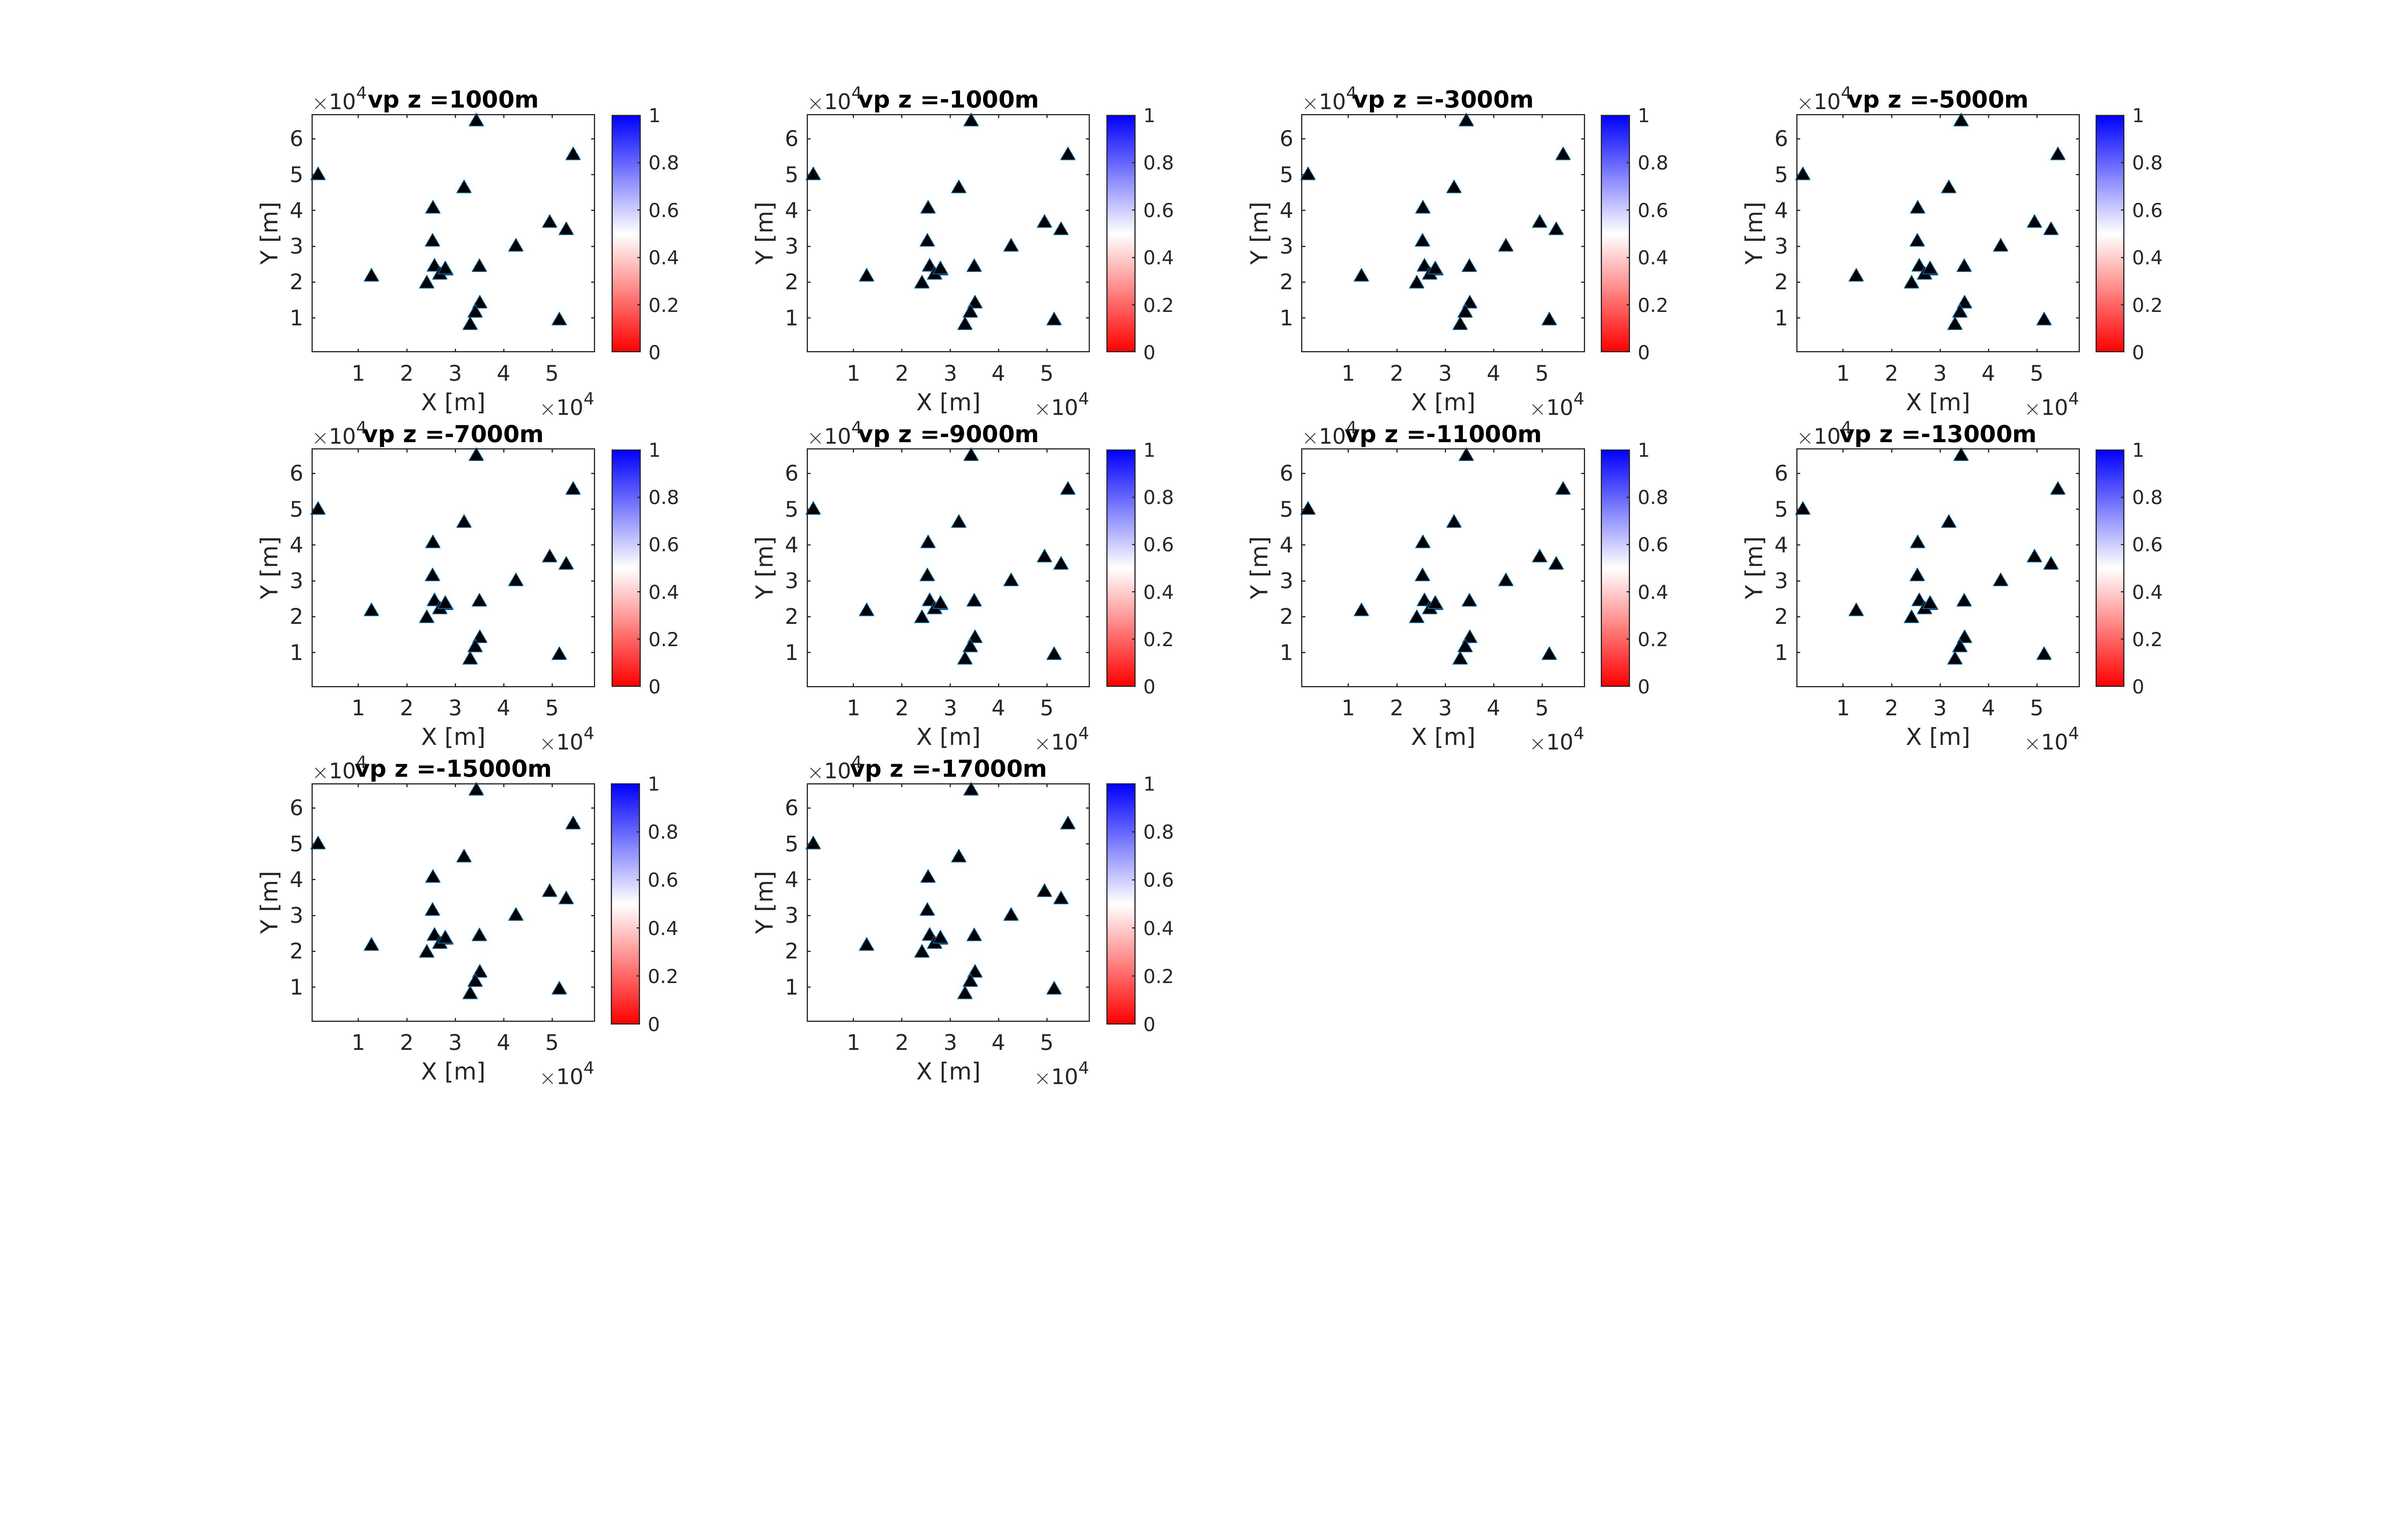
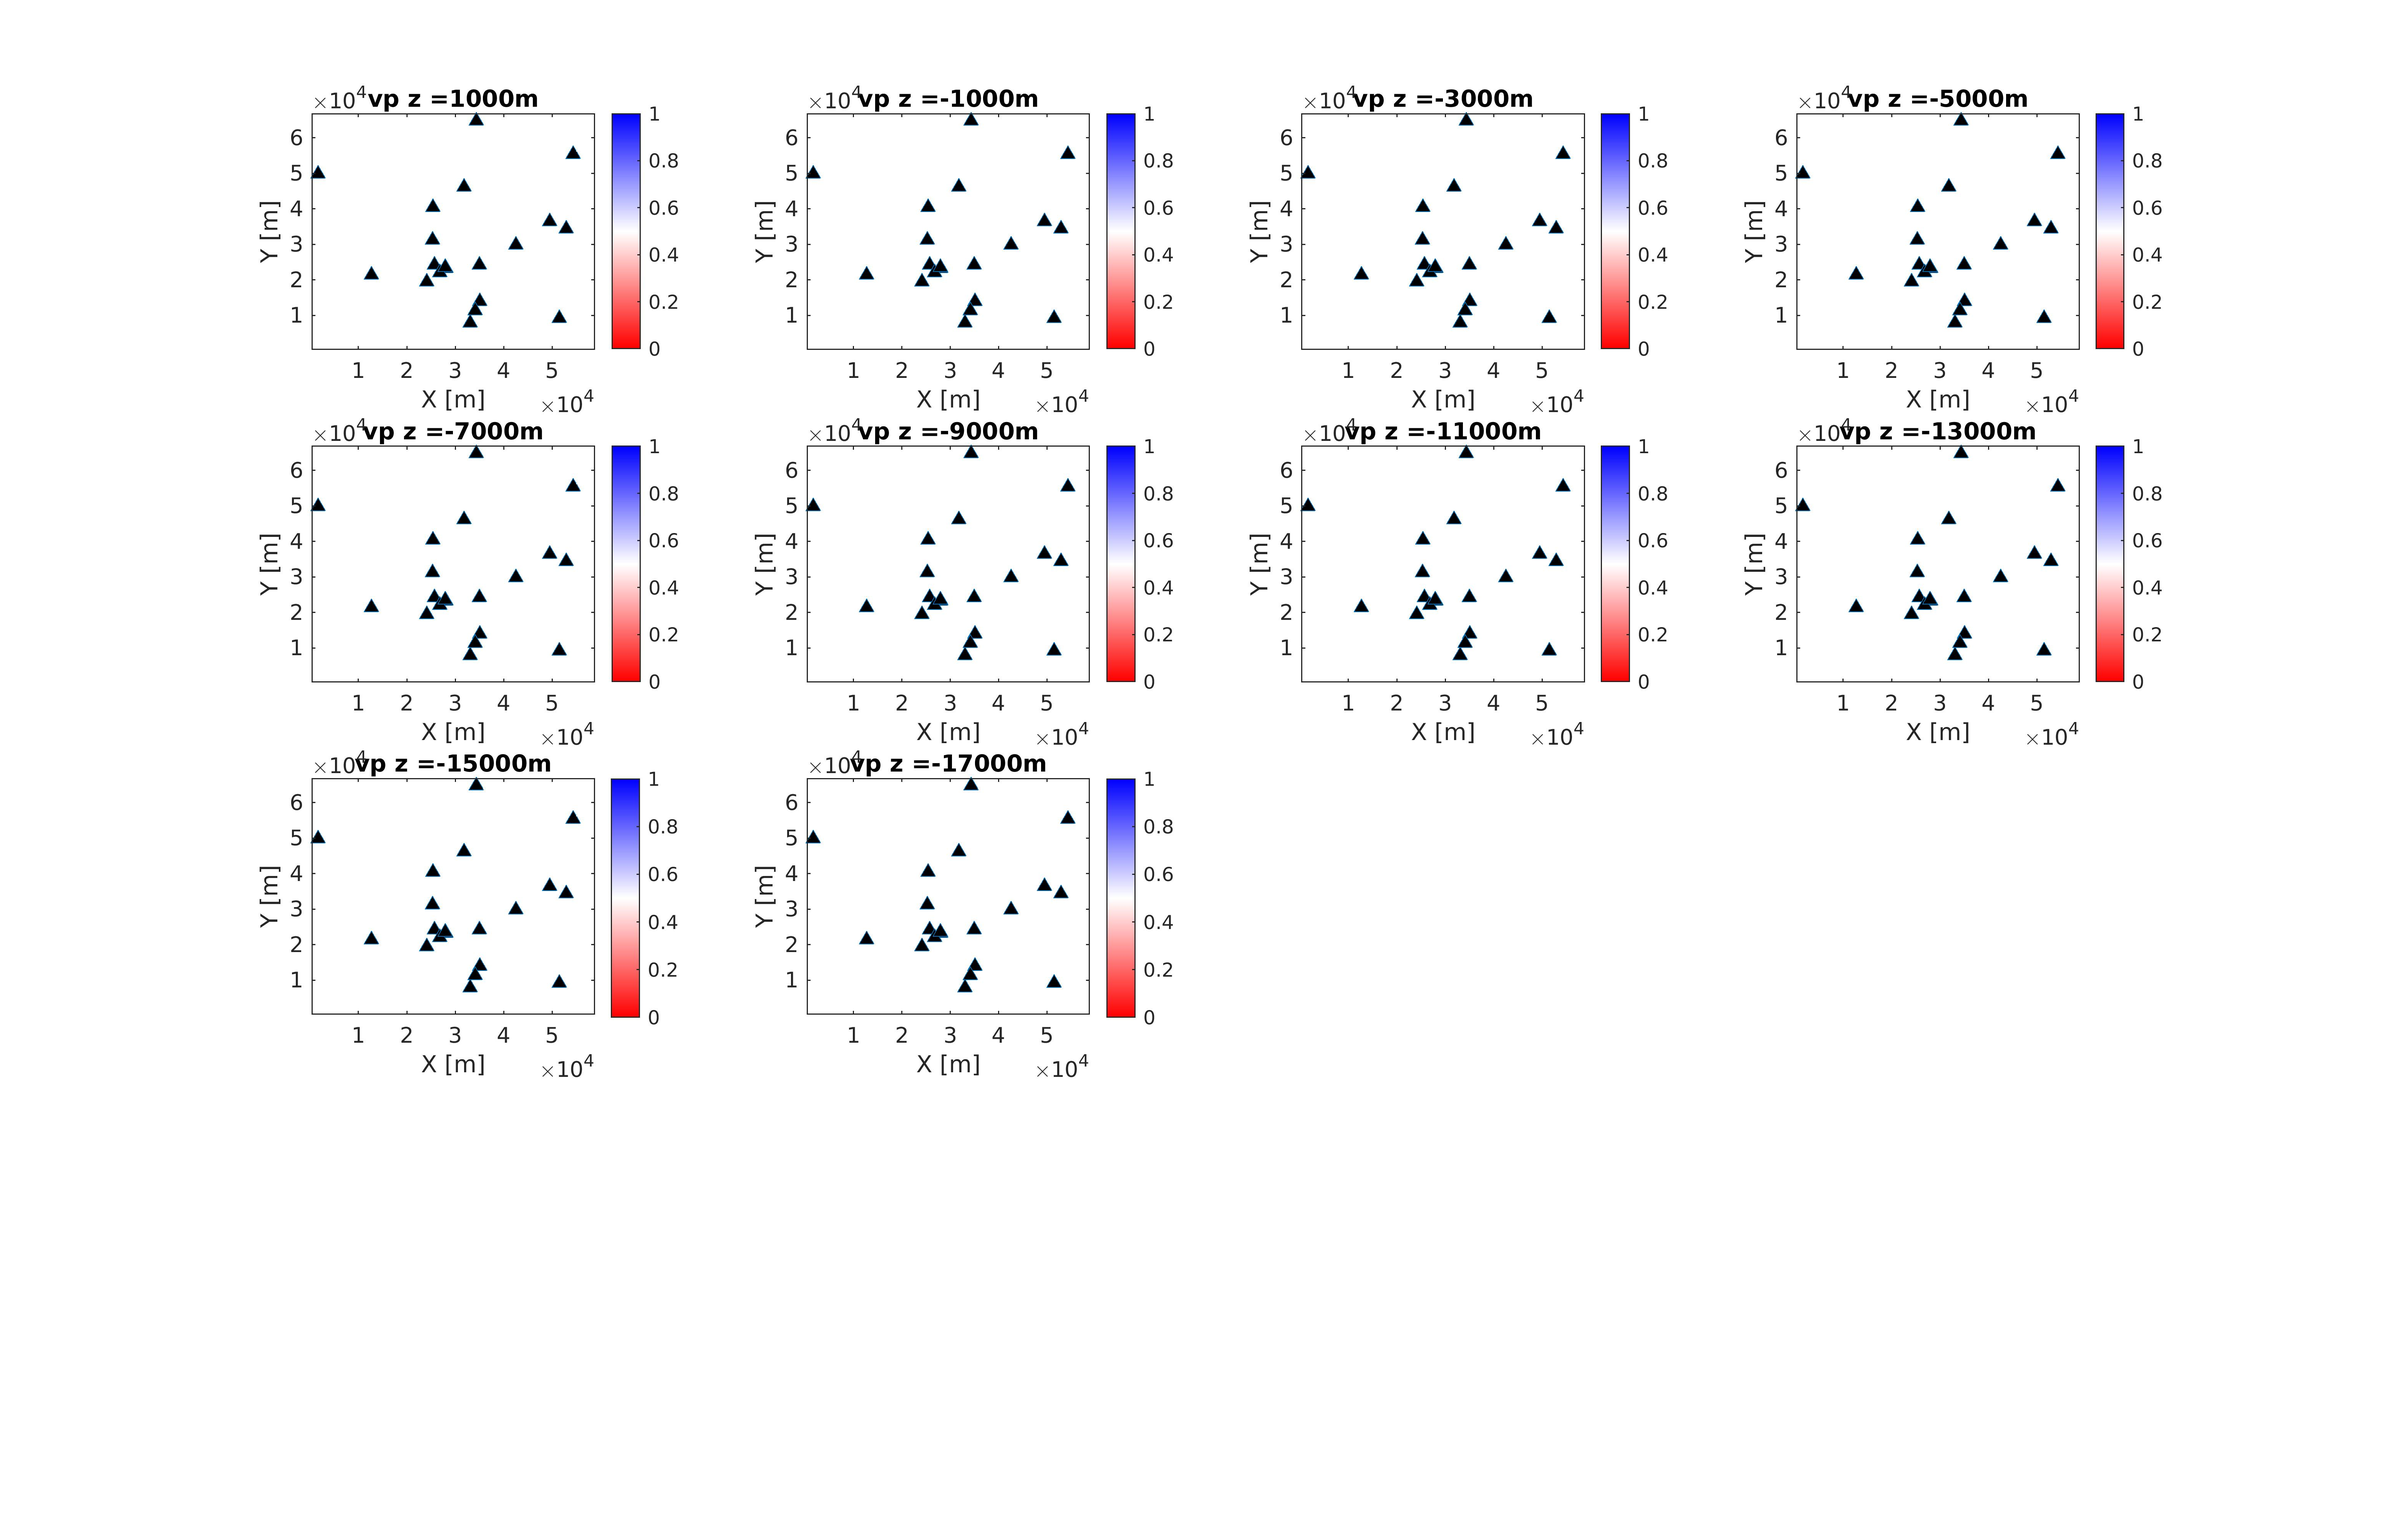
33

diff --git a/example/tutorial_alternating_inversion_Crati/create_figure4.m b/example/tutorial_alternating_inversion_Crati/create_figure4.m
@@ -25,7 +25,7 @@ turbo2=flip(turbo,1);
 redblue2=flip(redblue,1);
 %%
 % type the edge length
-edge_length=15000;
+edge_length=5000;
 %%
 receiver=load('./receiver_overview.csv');
 %% create checkerboard
@@ -172,7 +172,7 @@ vp=tt2;
 tt2=vs;
 for i=1:floor(nx/n)+1
     for j=1:floor(ny/n)+1
-        for k=1:floor(nz/n)+1
+        for k=1:floor(nz/n)
             tt=1;
             if s2(i,j,k)==0
                 tt=nan;
